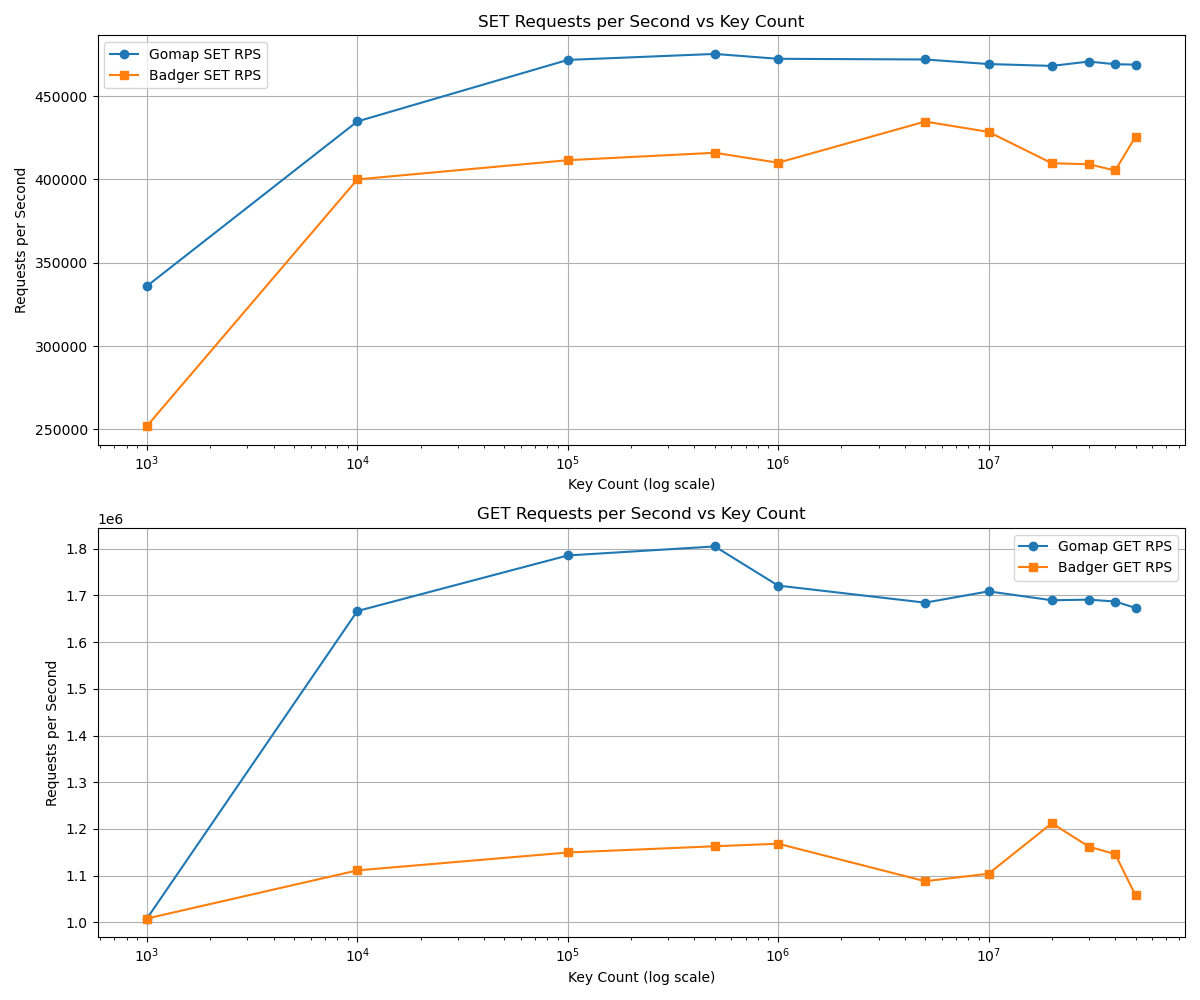
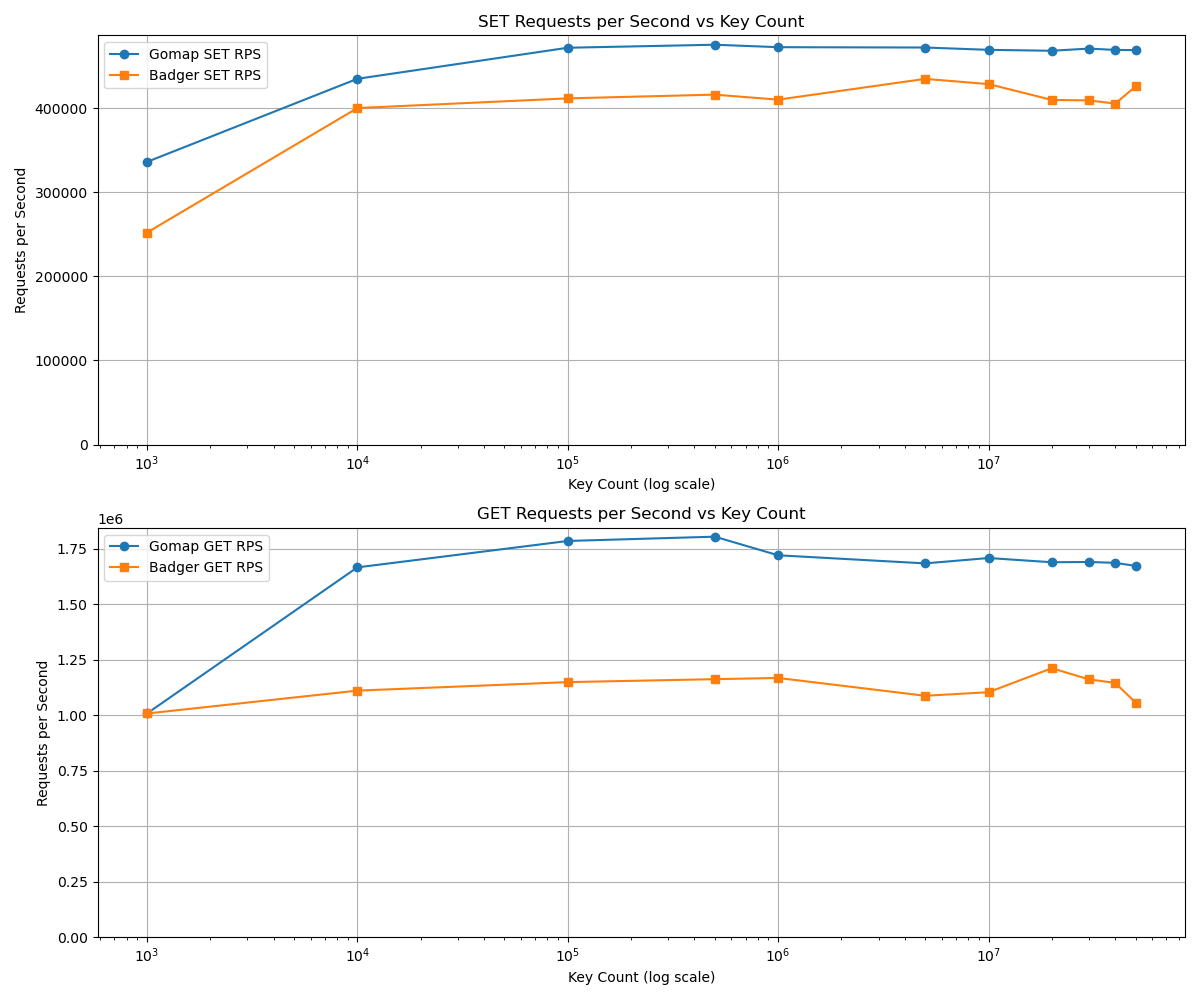
set y 0

diff --git a/benchmark/plot_benchmark.py b/benchmark/plot_benchmark.py
@@ -27,6 +27,8 @@ axes[0].set_title("SET Requests per Second vs Key Count")
 axes[0].set_xlabel("Key Count (log scale)")
 axes[0].set_ylabel("Requests per Second")
 axes[0].set_xscale("log")
+axes[0].set_ylim(bottom=0)
+
 axes[0].grid(True)
 axes[0].legend()
 
@@ -37,6 +39,7 @@ axes[1].set_title("GET Requests per Second vs Key Count")
 axes[1].set_xlabel("Key Count (log scale)")
 axes[1].set_ylabel("Requests per Second")
 axes[1].set_xscale("log")
+axes[1].set_ylim(bottom=0)
 axes[1].grid(True)
 axes[1].legend()
 
